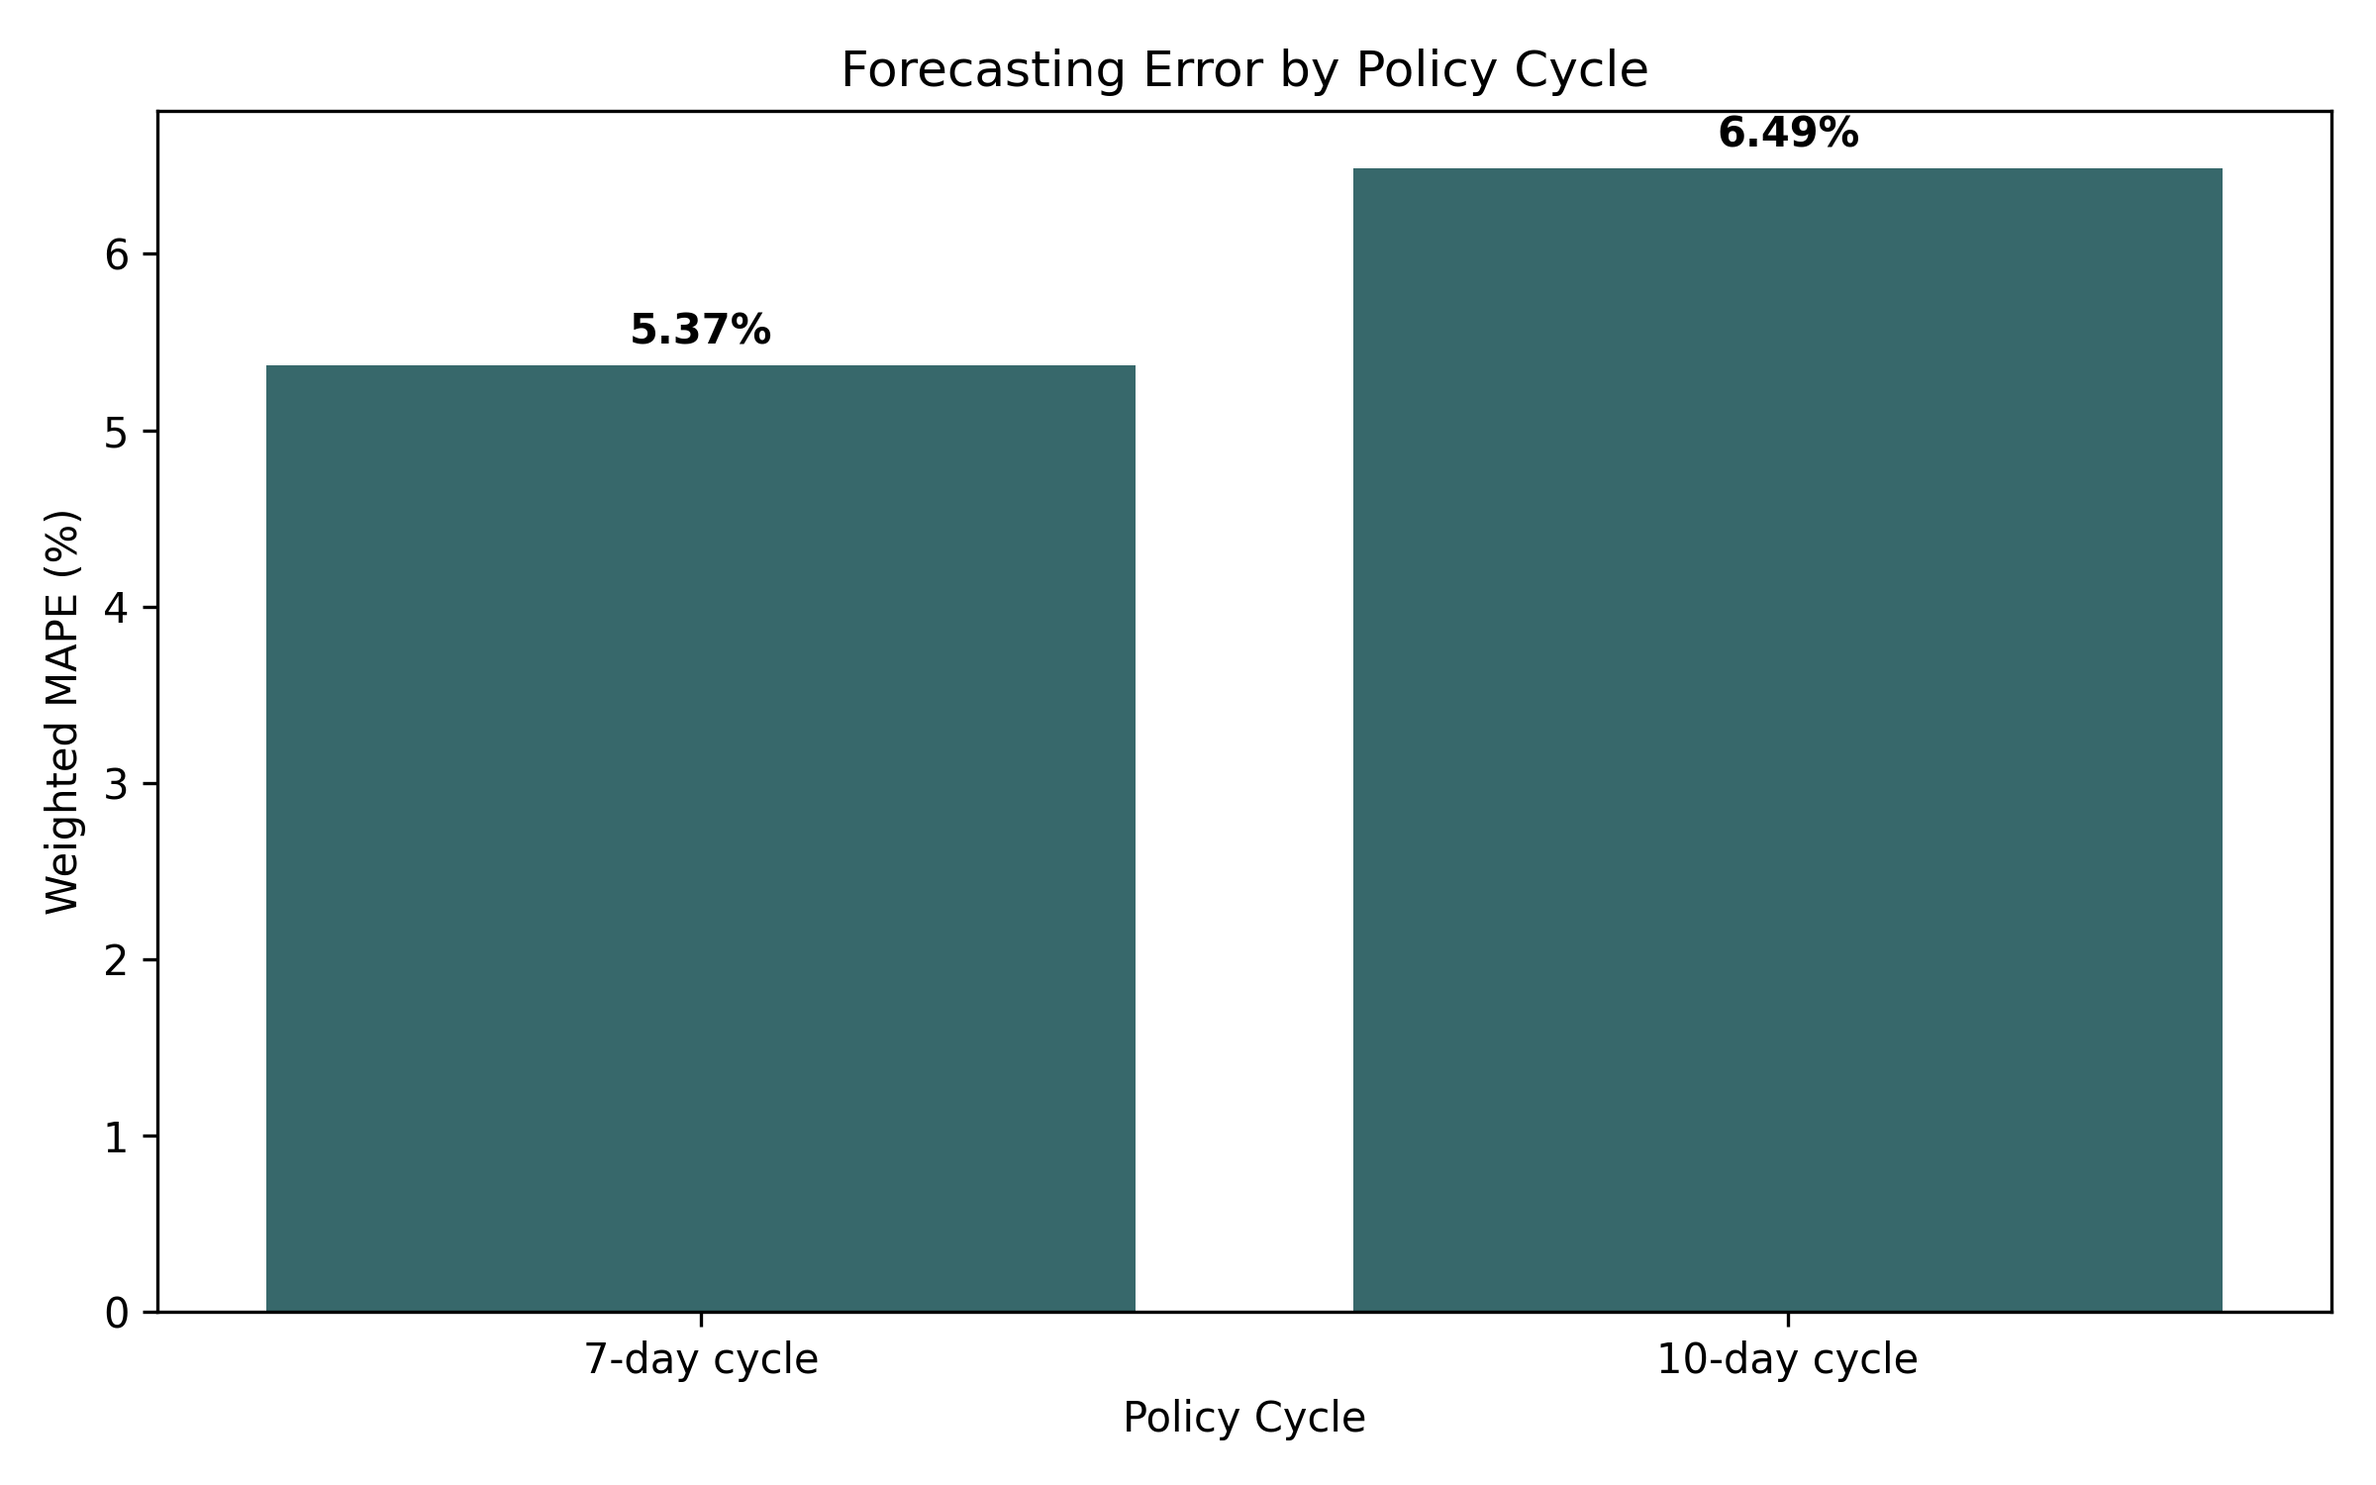
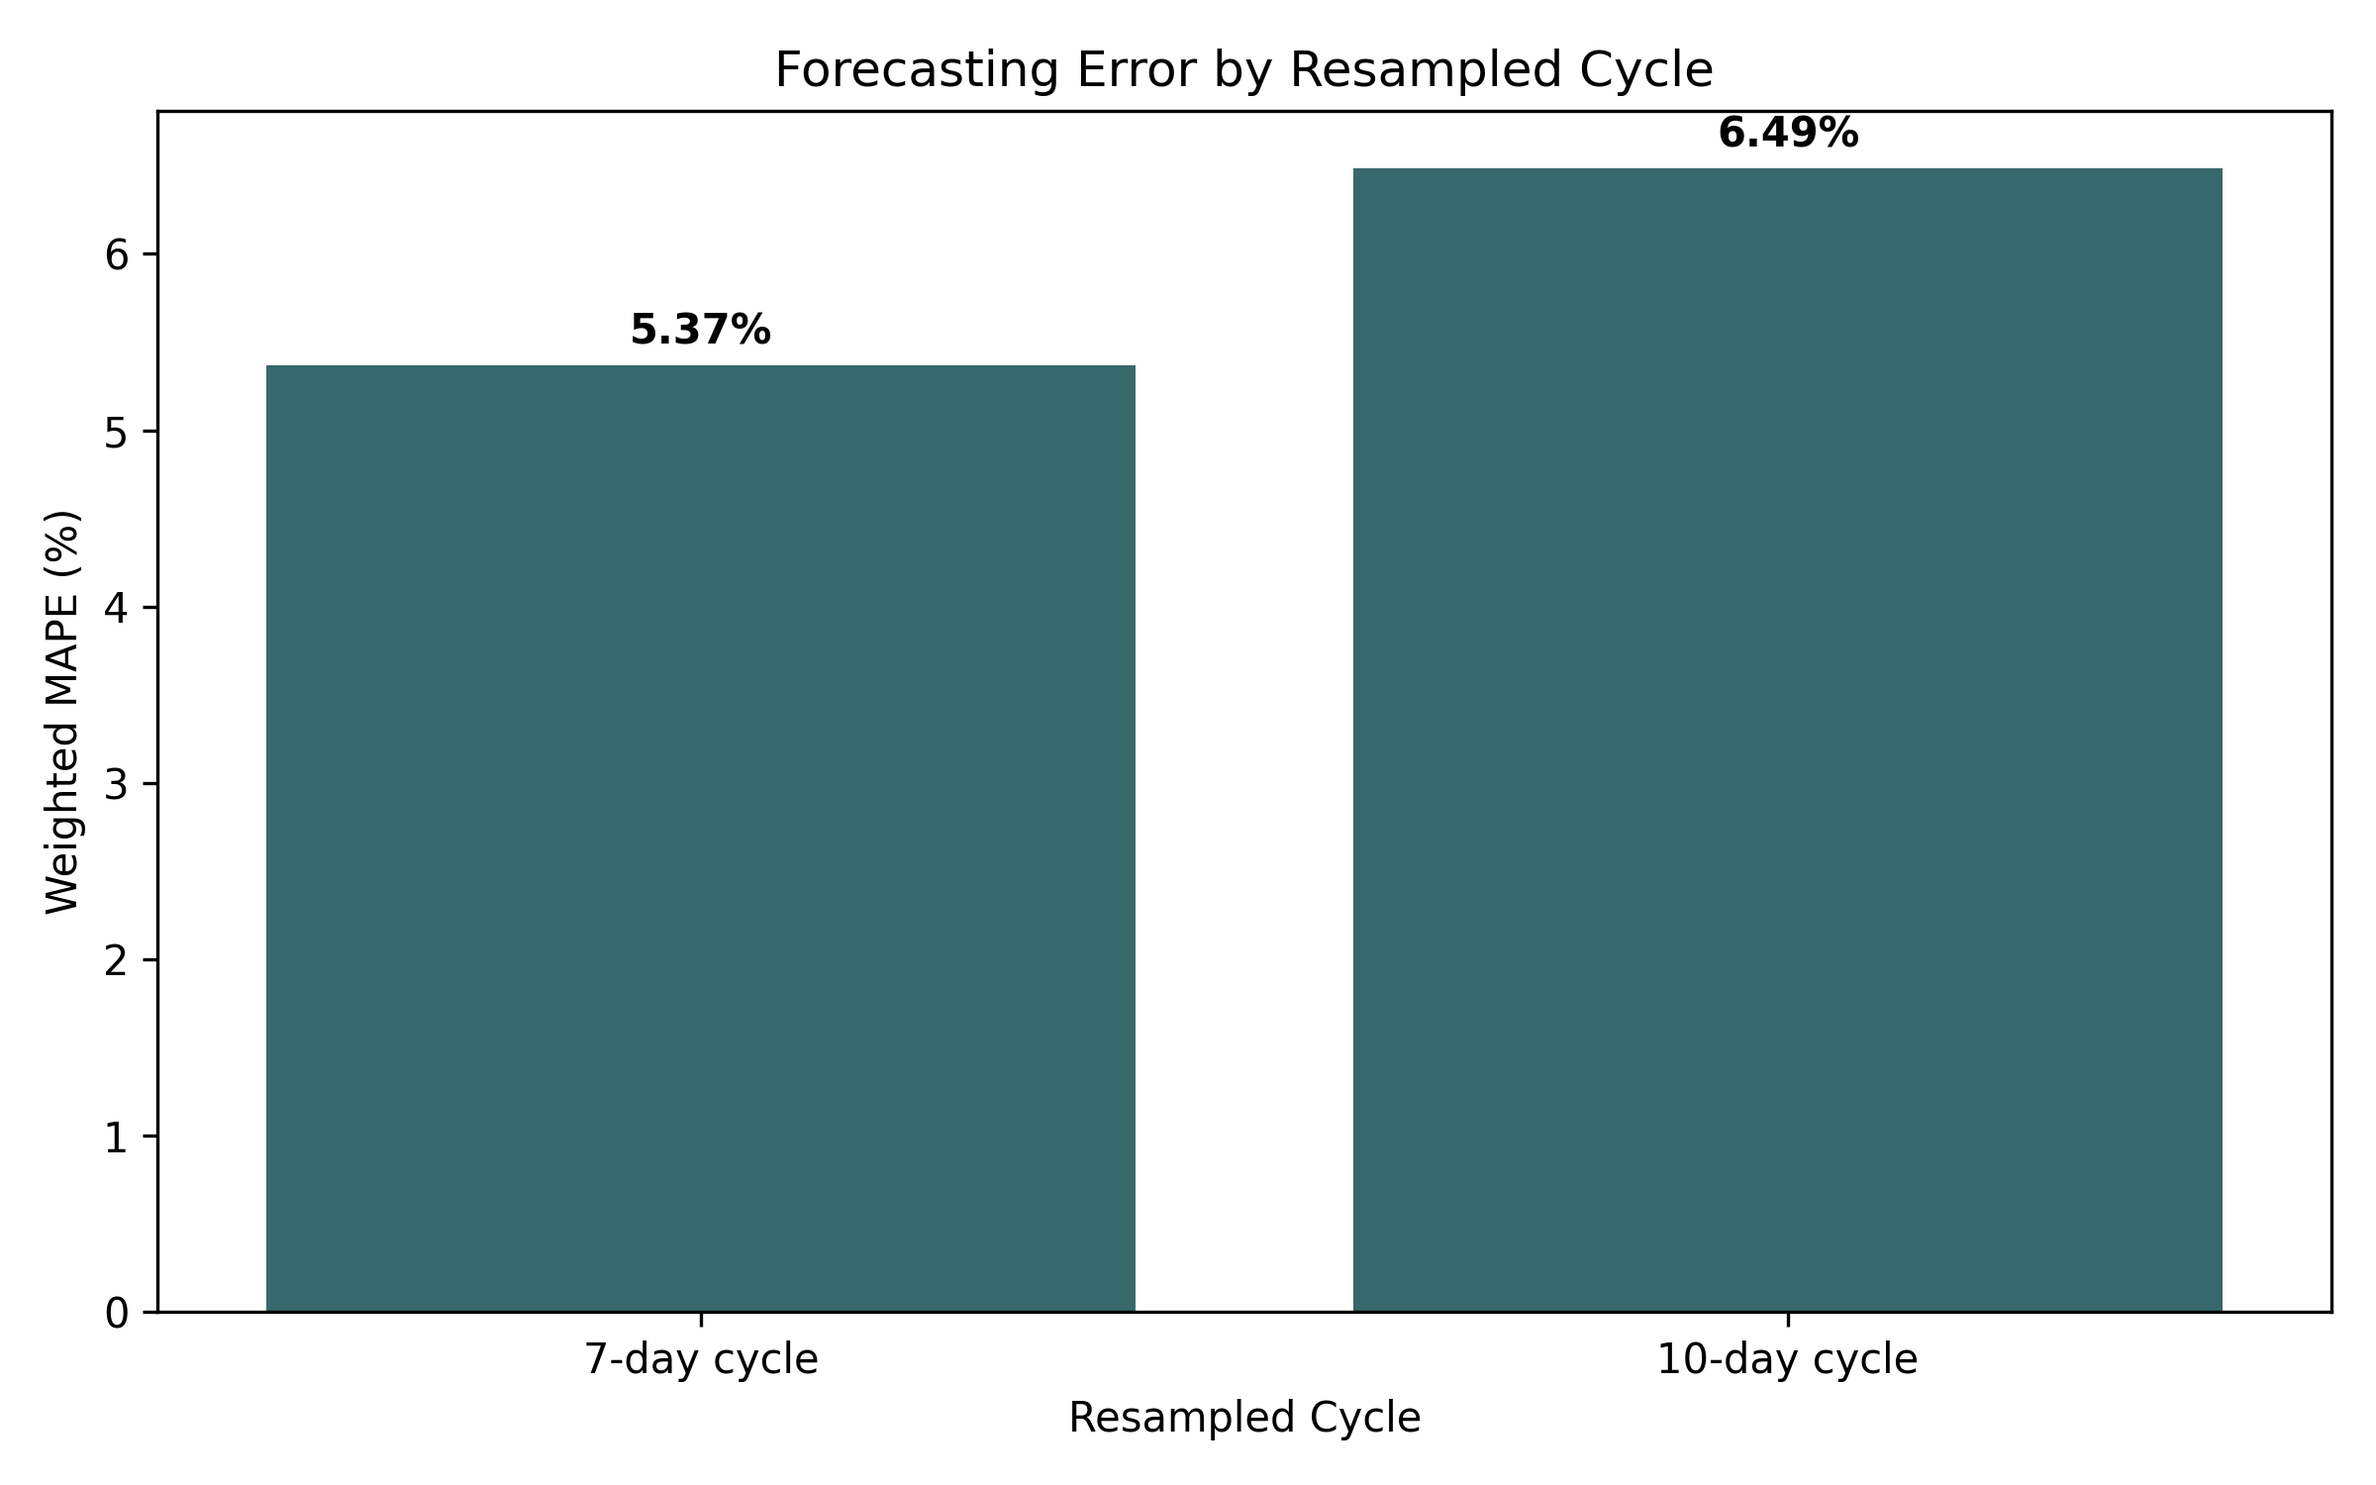
Polish methodology claims and forecast outputs

Changed region(s): [[0.3125, 0.0307, 0.7188, 0.0613], [0.4375, 0.92, 0.5938, 0.9813]]

diff --git a/src/create_notebook.py b/src/create_notebook.py
@@ -32,7 +32,7 @@ def create_notebook():
                 "source": [
                     "## 2. Thiết lập & Tải dữ liệu\n",
                     "\n",
-                    "Dữ liệu lịch sử giá bán lẻ xăng dầu được cào từ lịch sử điều hành giá của Petrolimex và Bộ Công Thương (từ 2019 đến nay). Các biến đặc trưng thị trường bao gồm giá dầu Brent, WTI, USD Index (DXY), chỉ số biến động VIX và tỷ giá USD/VND được tải trực tiếp từ Yahoo Finance."
+                    "Dữ liệu lịch sử giá bán lẻ xăng dầu được lấy từ bộ dữ liệu mã nguồn mở `toanqng/fuel`, bộ dữ liệu này ghi nguồn tham chiếu là Petrolimex. Project lưu snapshot đã làm sạch trong `data/` để tái lập kết quả. Các biến đặc trưng thị trường gồm Brent, WTI, USD Index (DXY), VIX và USD/VND được tải từ Yahoo Finance."
                 ]
             },
             {
@@ -157,7 +157,7 @@ def create_notebook():
                     "### Phân tích kết quả:\n",
                     "- Bảng trên được đọc trực tiếp từ `output/model_comparison.csv`, vì vậy luôn khớp với lần chạy pipeline mới nhất.\n",
                     "- **Naive Baseline** là benchmark bắt buộc vì giá điều hành thường có quán tính mạnh qua từng kỳ.\n",
-                    "- **XGBoost** được dùng làm mô hình điểm khi là ML model có MAPE tốt nhất; **LightGBM Quantile** được dùng để tạo khoảng tin cậy."
+                    "- **XGBoost** được dùng làm mô hình điểm khi là ML model có MAPE tốt nhất; **LightGBM Quantile** được dùng để tạo khoảng dự báo 2.5%-97.5%."
                 ]
             },
             {
@@ -166,8 +166,8 @@ def create_notebook():
                 "source": [
                     "## 6. Đóng góp Nghiên cứu & Phân tích Độ nhạy\n",
                     "\n",
-                    "### 6.1 So sánh Hiệu quả chu kỳ điều hành (7 ngày vs 10 ngày)\n",
-                    "Kết quả định lượng được lưu trong `output/policy_cycle_comparison.csv` và biểu đồ `output/policy_analysis.png`. Pipeline tính weighted MAPE theo số quan sát từng fold để tránh làm lệch kết quả bởi các năm dữ liệu chưa hoàn chỉnh."
+                    "### 6.1 So sánh resampling chu kỳ 7 ngày vs 10 ngày\n",
+                    "Kết quả định lượng được lưu trong `output/policy_cycle_comparison.csv` và biểu đồ `output/policy_analysis.png`. Pipeline tính weighted MAPE theo số quan sát từng fold để tránh làm lệch kết quả bởi các năm dữ liệu chưa hoàn chỉnh. Đây là stress test theo tần suất dữ liệu, không phải kết luận nhân quả về hiệu quả chính sách."
                 ]
             },
             {
@@ -206,7 +206,7 @@ def create_notebook():
                 "source": [
                     "## 7. Dự báo Giá xăng cho Kỳ Điều hành Tiếp theo\n",
                     "\n",
-                    "Dưới đây là giá dự báo cho kỳ điều hành Thứ Năm tuần tới. Điểm dự báo dùng **XGBoost**; khoảng tin cậy 95% dùng **LightGBM Quantile Regression**; cột Naive Baseline được giữ để đối chiếu với giá kỳ gần nhất."
+                    "Dưới đây là giá dự báo cho kỳ điều hành Thứ Năm tuần tới. Điểm dự báo dùng **XGBoost**; khoảng dự báo 2.5%-97.5% dùng **LightGBM Quantile Regression**; cột Naive Baseline được giữ để đối chiếu với giá kỳ gần nhất."
                 ]
             },
             {

diff --git a/src/analysis.py b/src/analysis.py
@@ -64,7 +64,7 @@ def weighted_average(values, weights):
 
 
 def run_policy_cycle_comparison(raw_df):
-    print("\nRunning policy cycle comparison (7-day vs 10-day)...")
+    print("\nRunning policy-cycle resampling comparison (7-day vs 10-day)...")
     os.makedirs(OUTPUT_DIR, exist_ok=True)
 
     resample_periods = {'7D': '7-day cycle', '10D': '10-day cycle'}
@@ -115,16 +115,16 @@ def run_policy_cycle_comparison(raw_df):
         print(f"Weighted MAPE for {label}: {avg_mape:.2f}%")
 
     result_df = pd.DataFrame({
-        'Policy_Cycle': list(cycle_results.keys()),
+        'Resample_Cycle': list(cycle_results.keys()),
         'Weighted_MAPE_RON95': list(cycle_results.values()),
     })
     result_df.to_csv(os.path.join(OUTPUT_DIR, "policy_cycle_comparison.csv"), index=False)
 
     plt.figure(figsize=(8, 5))
-    ax = sns.barplot(data=result_df, x='Policy_Cycle', y='Weighted_MAPE_RON95', color='#2f6f73')
-    plt.title('Forecasting Error by Policy Cycle')
+    ax = sns.barplot(data=result_df, x='Resample_Cycle', y='Weighted_MAPE_RON95', color='#2f6f73')
+    plt.title('Forecasting Error by Resampled Cycle')
     plt.ylabel('Weighted MAPE (%)')
-    plt.xlabel('Policy Cycle')
+    plt.xlabel('Resampled Cycle')
     for container in ax.containers:
         ax.bar_label(container, fmt='%.2f%%', padding=3, fontweight='bold')
 
@@ -137,7 +137,7 @@ def run_policy_cycle_comparison(raw_df):
 
 
 def run_sensitivity_analysis(feature_df):
-    print("\nRunning policy sensitivity analysis...")
+    print("\nRunning scenario sensitivity analysis...")
     os.makedirs(OUTPUT_DIR, exist_ok=True)
 
     feature_cols = get_feature_columns('RON95')
@@ -301,6 +301,8 @@ def make_predictions_for_next_thursday(raw_df, feature_df):
 
     latest_retail_date = raw_df['date'].max()
     next_date = next_thursday_after(latest_retail_date)
+    generated_on = pd.Timestamp.today().normalize()
+    forecast_status = 'stale' if next_date.normalize() < generated_on else 'current_or_future'
     forecast_row, market_as_of = build_forecast_row(raw_df, next_date)
 
     ron95_models = fit_forecast_models(feature_df, 'RON95')
@@ -314,19 +316,21 @@ def make_predictions_for_next_thursday(raw_df, feature_df):
 
     predictions_path = os.path.join(OUTPUT_DIR, "forecast_this_thursday.csv")
     pred_df = pd.DataFrame({
+        'Generated_On': [generated_on.strftime('%Y-%m-%d')],
+        'Forecast_Status': [forecast_status],
         'Date': [next_date.strftime('%Y-%m-%d')],
         'Market_Data_As_Of': [pd.Timestamp(market_as_of).strftime('%Y-%m-%d')],
         'Latest_Retail_Date': [latest_retail_date.strftime('%Y-%m-%d')],
         'Forecast_Point_Model': ['XGBoost'],
-        'Interval_Model': ['LightGBM Quantile'],
+        'Interval_Model': ['LightGBM Quantile 2.5%-97.5%'],
         'RON95_Naive_Baseline': [raw_df['RON95'].iloc[-1]],
         'RON95_Forecast': [pred_ron95],
-        'RON95_Lower_CI': [lower_ron95],
-        'RON95_Upper_CI': [upper_ron95],
+        'RON95_Lower_PI': [lower_ron95],
+        'RON95_Upper_PI': [upper_ron95],
         'E5_Naive_Baseline': [raw_df['E5_RON92'].iloc[-1]],
         'E5_Forecast': [pred_e5],
-        'E5_Lower_CI': [lower_e5],
-        'E5_Upper_CI': [upper_e5],
+        'E5_Lower_PI': [lower_e5],
+        'E5_Upper_PI': [upper_e5],
     })
     pred_df.to_csv(predictions_path, index=False)
     print(f"Predictions saved to {predictions_path}")

diff --git a/pipeline.py b/pipeline.py
@@ -3,7 +3,6 @@ import sys
 import time
 import subprocess
 
-subprocess.run([sys.executable, "-m", "pip", "install", "-r", "requirements.txt"], check=True)
 # Set encoding for Windows console
 sys.stdout.reconfigure(encoding='utf-8')
 
@@ -53,7 +52,7 @@ def main():
     print("\n==========================================")
     print(" Pipeline completed successfully!")
     print(" Output files generated in the 'output' directory:")
-    print(" - output/forecast_this_thursday.csv (Next Thursday Forecasts & 95% CI)")
+    print(" - output/forecast_this_thursday.csv (Next Thursday forecasts & model-based 95% prediction intervals)")
     print(" - output/model_comparison.csv (MAPE comparison across models)")
     print(" - output/policy_cycle_comparison.csv (7-day vs 10-day weighted MAPE)")
     print(" - output/sensitivity_matrix.csv (Brent vs BOG scenario grid)")

diff --git a/src/data_fetcher.py b/src/data_fetcher.py
@@ -22,7 +22,7 @@ MARKET_COLS = list(MARKET_TICKERS.values())
 
 def download_retail_prices():
     os.makedirs(DATA_DIR, exist_ok=True)
-    print("Downloading historical retail gasoline prices from github...")
+    print("Downloading historical retail gasoline prices from the toanqng/fuel open-source dataset...")
     url = "https://raw.githubusercontent.com/toanqng/fuel/master/fuel-vietnam.json"
     
     try:

diff --git a/README.md b/README.md
@@ -4,7 +4,7 @@
 **Tác giả**: Vũ Xuân Duy Anh 
 **Lần chạy pipeline gần nhất**: 2026-06-17
 
-Project dự báo giá bán lẻ xăng Việt Nam cho kỳ điều hành kế tiếp, tập trung vào **RON95** và **E5 RON92**. Dữ liệu giá bán lẻ được ghép với các biến thị trường quốc tế gồm Brent, WTI, DXY, VIX và USD/VND.
+Project dự báo giá bán lẻ xăng Việt Nam cho kỳ điều hành kế tiếp, tập trung vào **RON95** và **E5 RON92**. Dữ liệu giá bán lẻ được lấy từ bộ dữ liệu mã nguồn mở [`toanqng/fuel`](https://github.com/toanqng/fuel), bộ dữ liệu này ghi nguồn tham chiếu là Petrolimex; project lưu lại snapshot đã làm sạch trong `data/` để tái lập kết quả. Các biến thị trường quốc tế gồm Brent, WTI, DXY, VIX và USD/VND được tải từ Yahoo Finance.
 
 ## Kết quả hiện tại
 
@@ -18,13 +18,15 @@ Weighted MAPE qua walk-forward validation, tính trọng số theo số quan sá
 | LightGBM | 6.65% | 6.47% |
 | SARIMA | 11.64% | 11.48% |
 
-Forecast mới nhất trong `output/forecast_this_thursday.csv`:
+Forecast snapshot hiện được commit trong `output/forecast_this_thursday.csv`:
 
 | Target date | Market data as of | RON95 forecast | E5 forecast |
 |---|---|---:|---:|
-| 2026-06-18 | 2026-06-17 | 22,976 VND/L | 21,666 VND/L |
+| 2026-06-18 | 2026-06-17 | 22,941 VND/L | 21,607 VND/L |
 
-Điểm dự báo dùng **XGBoost** vì đây là ML model tốt nhất trong CV. Khoảng tin cậy 95% dùng **LightGBM Quantile Regression**. File forecast cũng giữ cột **Naive Baseline** để so sánh với giá kỳ gần nhất.
+Điểm dự báo dùng **XGBoost** vì đây là ML model tốt nhất trong CV. Khoảng dự báo 2.5%-97.5% dùng **LightGBM Quantile Regression**; đây là prediction interval dựa trên mô hình, chưa được kiểm định calibration coverage. File forecast cũng giữ cột **Naive Baseline** để so sánh với giá kỳ gần nhất.
+
+File forecast có thêm `Generated_On` và `Forecast_Status` để phân biệt snapshot còn hiện hành với snapshot đã stale khi nguồn dữ liệu giá bán lẻ chưa cập nhật kỳ mới.
 
 ## Cấu trúc
 
@@ -66,11 +68,11 @@ python pipeline.py
 
 Pipeline sẽ:
 
-1. Tải và làm sạch dữ liệu giá bán lẻ.
+1. Tải và làm sạch dữ liệu giá bán lẻ từ `toanqng/fuel`.
 2. Tải biến thị trường từ Yahoo Finance.
 3. Ghép dữ liệu theo nguyên tắc chỉ dùng market data có sẵn trước ngày điều hành.
 4. Tạo feature, chạy walk-forward CV và lưu bảng so sánh model.
-5. Sinh phân tích chu kỳ chính sách, sensitivity heatmap, forecast CSV và notebook.
+5. Sinh so sánh resampling chu kỳ 7 ngày/10 ngày, sensitivity heatmap, forecast CSV và notebook.
 
 ## Kiểm soát rò rỉ dữ liệu (anti-leakage)
 
@@ -84,7 +86,7 @@ Pipeline sẽ:
 | Cross-validation | Walk-forward theo năm; winsorizing fit trên train fold, transform test fold |
 | Forecast kỳ tới | Lấy snapshot market mới nhất từ `yfinance_features.csv` trước ngày điều hành, không chỉ dùng dòng cuối của `merged_dataset.csv` |
 
-**Lưu ý phương pháp**: Dự báo điểm và sensitivity heatmap huấn luyện trên toàn bộ lịch sử (production inference). Chỉ phần đánh giá model trong `models.py` và so sánh chu kỳ chính sách dùng CV có kiểm soát leakage.
+**Lưu ý phương pháp**: Dự báo điểm và sensitivity heatmap huấn luyện trên toàn bộ lịch sử (production inference). Chỉ phần đánh giá model trong `models.py` và so sánh resampling chu kỳ 7 ngày/10 ngày dùng CV có kiểm soát leakage. So sánh chu kỳ này là stress test theo tần suất dữ liệu, không phải kết luận nhân quả về hiệu quả chính sách.
 
 ## Ghi chú
 
